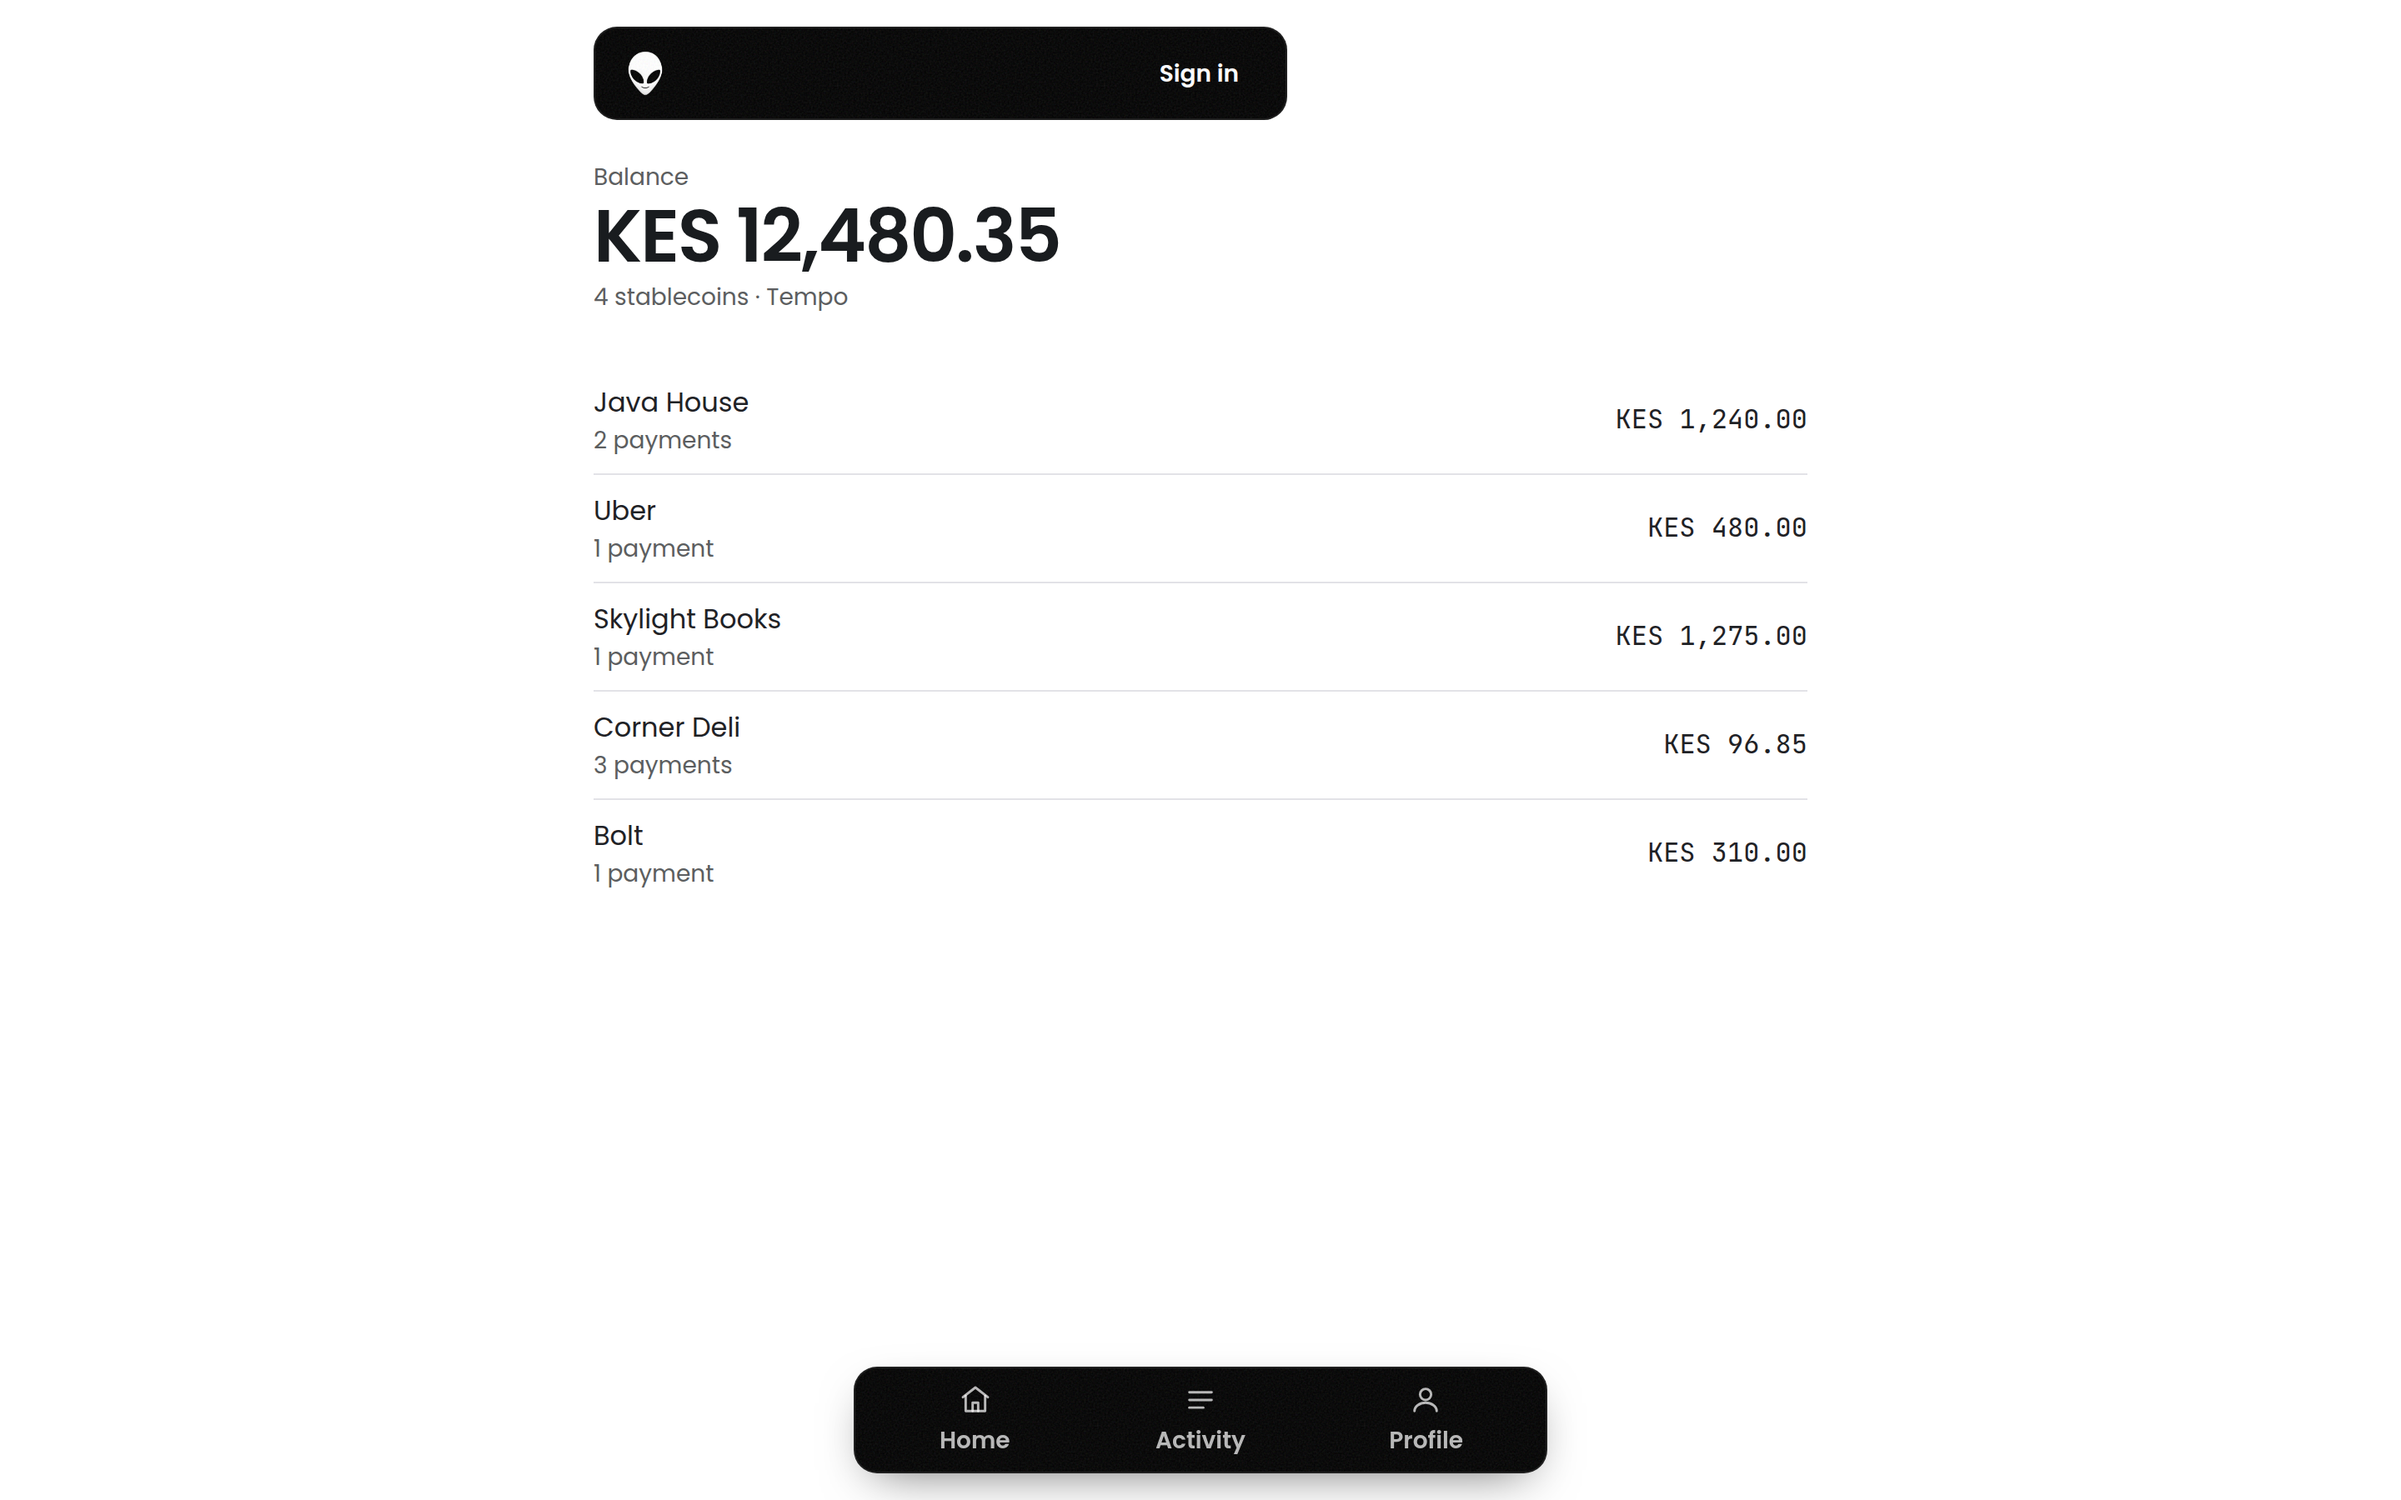
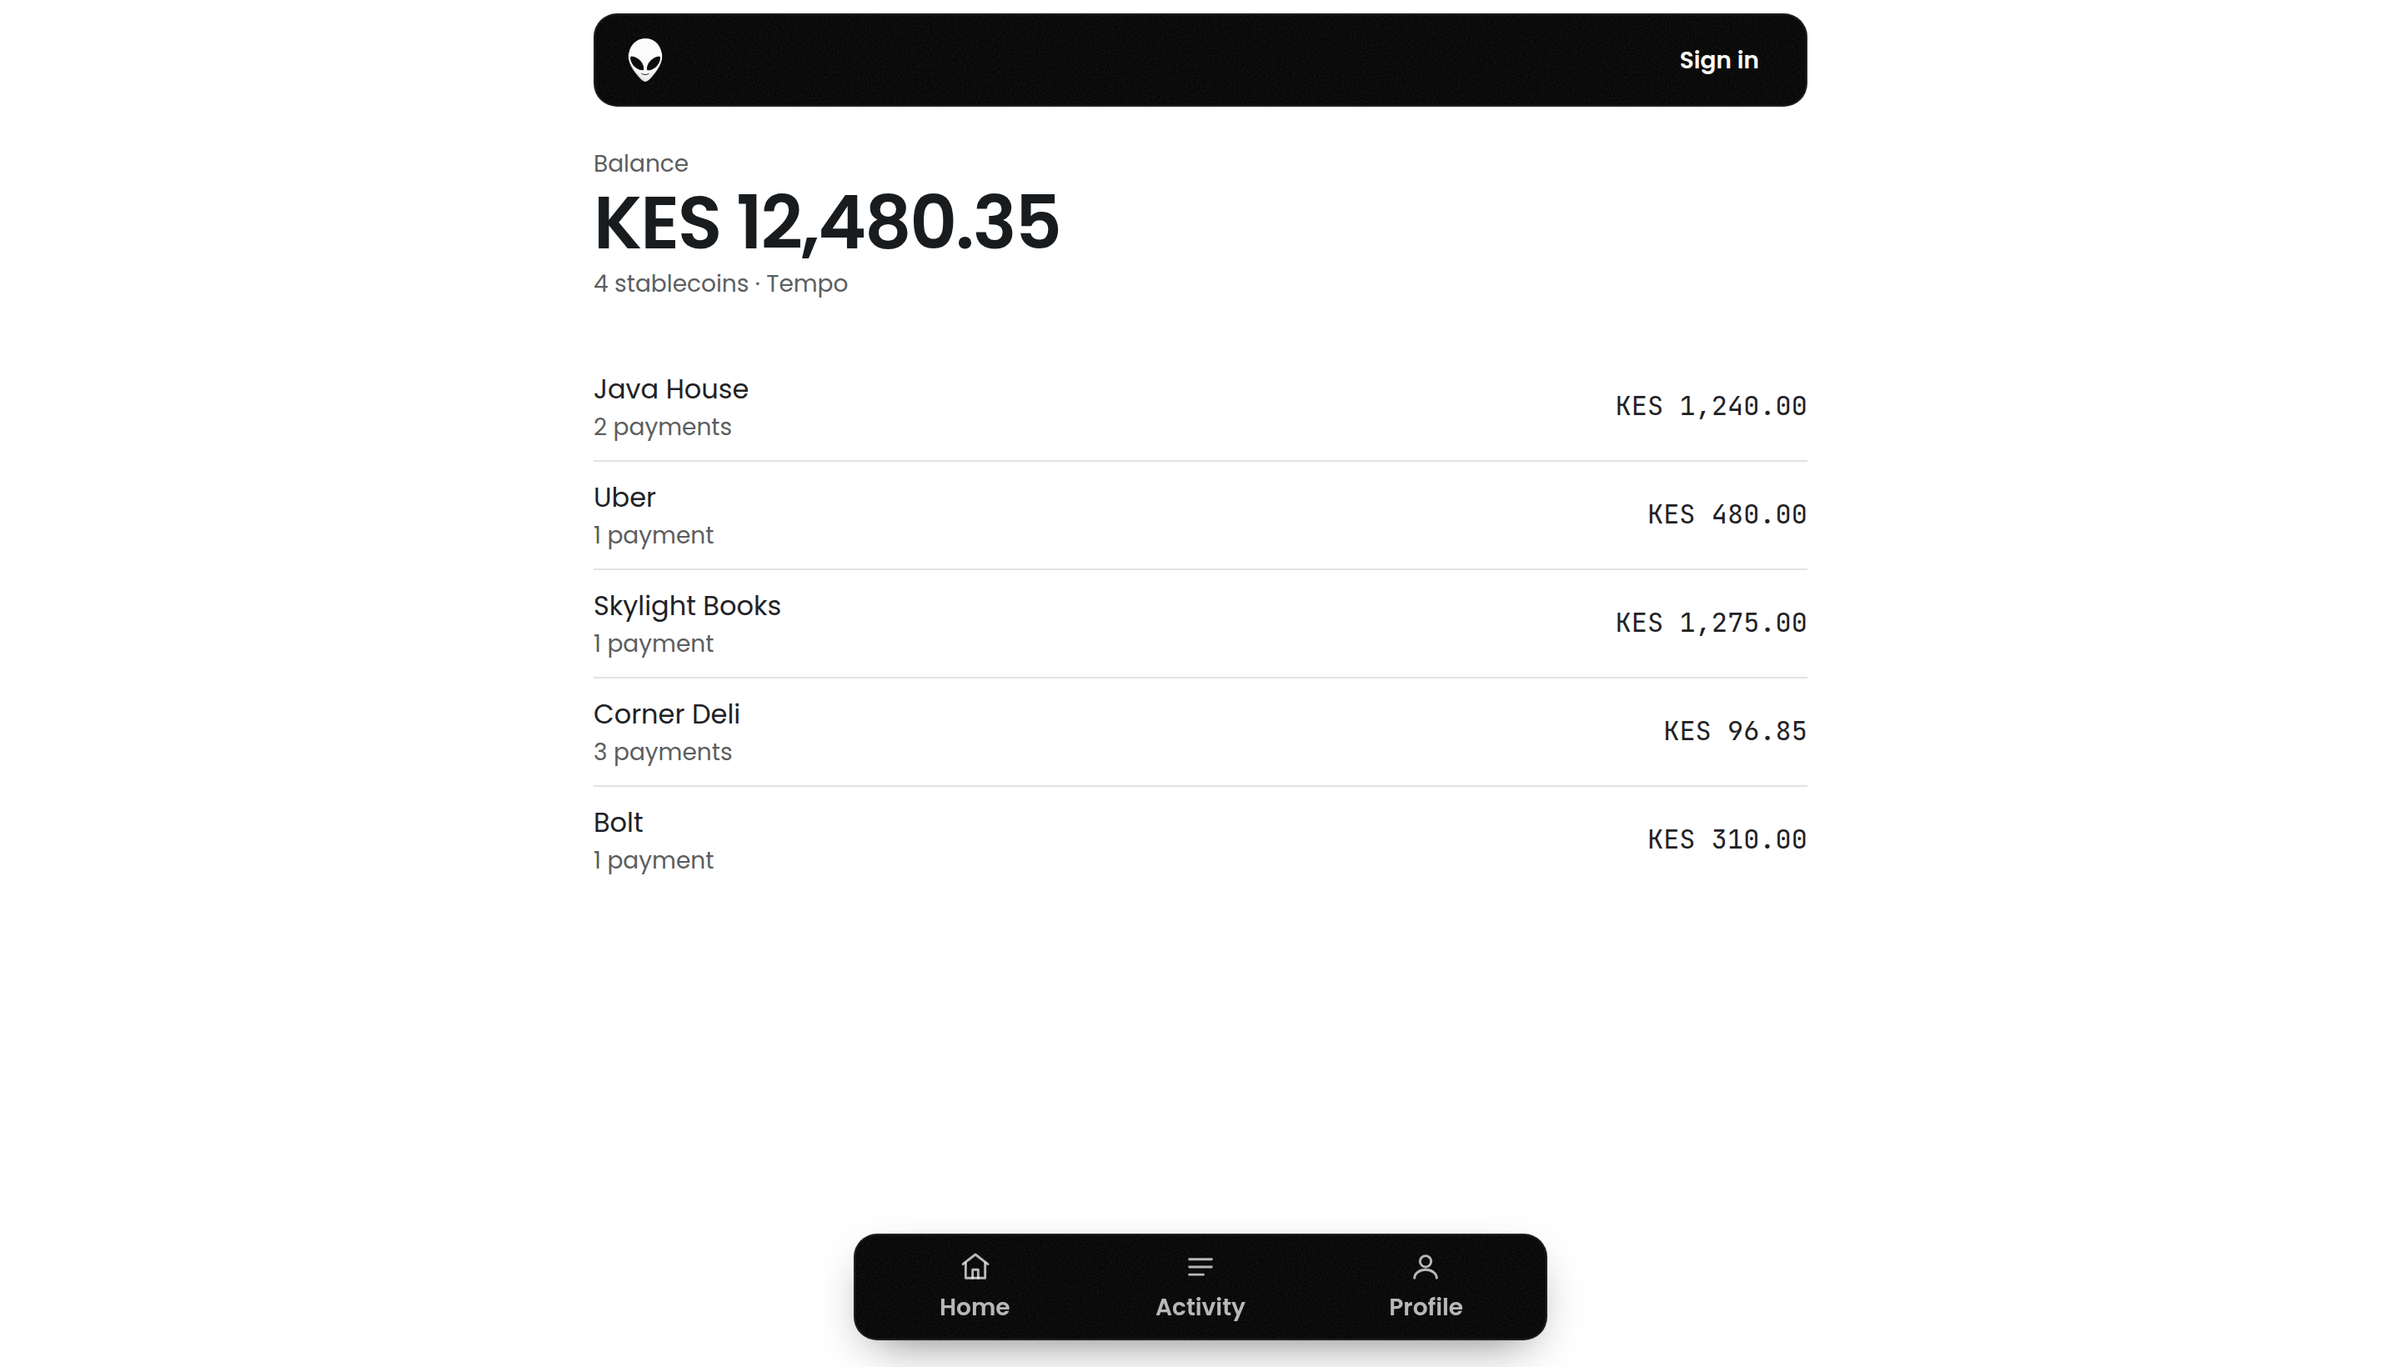
fix(app): the header widens with the column, and names the account by its handle
Two things the last commit left wrong (#542).

The header was capped at the dock's 416px at every width, so on a desktop it floated above a 768px
column, 176px in from its left edge — a slab aligned to nothing. Below `md` it is the column's
width; from `md` up it stops capping and spans the content column, so the masthead shares the
balance card's edges. Measured at 1440: header 728 at x=356, content 728 at x=356.

And the signed-in slot drew `Mark`, which is now the PRODUCT's face — one alien for every account —
so the header showed a second alien beside the brand's. It says `@handle` in the same text control
`Sign in` wears, opening `/app/profile`: the handle is what identifies the person, it is the string a
sender types, and it is what every bank prints when it is not drawing a photo.

diff --git a/web/components/app/TopBarState.tsx b/web/components/app/TopBarState.tsx
@@ -1,7 +1,7 @@
 'use client';
 
 import Link from 'next/link';
-import { Mark, Text } from '@/components/ui';
+import { Text } from '@/components/ui';
 import { SIGN_IN_PATH } from '@/lib/routes';
 import { useSession } from '@/lib/auth';
 import { useAccountIdentity } from '@/lib/account';
@@ -14,11 +14,13 @@ import { useAppNetwork } from './useAppNetwork';
  *    one frame, is the one thing this control must not do.
  * 2. **Not signed in** — `Sign in`, the app's one way in. This is where the rail's signed-out card
  *    went: the rail had a foot and a paragraph, a header has one row, so the control is the row.
- * 3. **Signed in** — the account's own `Mark`: initials on the tone its handle derives, the same
- *    object `ProfileIdentity` draws at 64px, at 32px here. Every bank in the reference set puts the
- *    person in the app's top corner this way (Zopa, Revolut and Monzo top-left; Neo Financial
- *    top-right), and a right-hand slot that empties the moment you sign in reads as a control that
- *    failed rather than as a state that is fine.
+ * 3. **Signed in** — `@handle`, in the same text control `Sign in` wears, opening `/app/profile`.
+ *    The handle rather than `Mark`, deliberately: the mark is now the PRODUCT's face (one alien for
+ *    every account), so drawing it here would put a second alien beside the brand's for no gain.
+ *    The handle is the string that identifies the person — it is what a sender types — and it is
+ *    what every bank prints beside the avatar when it is not drawing a photo (Zopa's "Hi <name>",
+ *    Revolut's name under the avatar). A right-hand slot that empties the moment you sign in reads
+ *    as a control that failed rather than as a state that is fine.
  * 4. **In practice, a chip before it** — `Practice`, in the network's own attention ink, linking to
  *    the page where the network is switched. The practice strip that used to state this on every
  *    screen is gone; this chip is that signal now, which is why the header is sticky.
@@ -82,9 +84,11 @@ export function TopBarState() {
       <Link
         href="/app/profile"
         aria-label="Your profile"
-        className="flex h-11 items-center justify-center rounded-full px-1 focus-visible:outline-none focus-visible:ring-2 focus-visible:ring-primary"
+        className="flex h-11 max-w-40 items-center rounded-lg px-3 whitespace-nowrap transition-colors duration-(--duration-quick) ease-out hover:bg-surface-deep focus-visible:outline-none focus-visible:ring-2 focus-visible:ring-primary"
       >
-        <Mark size="sm" handle={handle} />
+        <Text variant="tab" as="span" color="inverse" className="truncate">
+          {handle ? `@${handle}` : 'Profile'}
+        </Text>
       </Link>
     </span>
   );

diff --git a/web/components/app/AppTopBar.tsx b/web/components/app/AppTopBar.tsx
@@ -16,12 +16,18 @@ import { TopBarState } from './TopBarState';
  * is real. Two objects, each with one job, and the dock keeps three items and the air to spread
  * them.
  *
- * ## Its shape is the dock's shape
+ * ## Its shape is the dock's shape, its WIDTH is the content's
  *
- * Same material, same radius, same width, same axis: a rounded rectangle of `canvas-dark` with the
- * chrome grain and one hairline, capped at the same `max-w` as the dock and centred on the content
- * column. Fey draws its chrome as floating pills and Luma and Fabric as floating toolbars; the rule
- * this app keeps is that chrome is a slab with rounded corners, never a full-bleed band.
+ * Same material, same radius, same treatment as the dock: a rounded rectangle of `canvas-dark` with
+ * the chrome grain and one hairline. Fey draws its chrome as floating pills and Luma and Fabric as
+ * floating toolbars; the rule this app keeps is that chrome is a slab with rounded corners, never a
+ * full-bleed band.
+ *
+ * Below `md` it is the column's own width, minus the page's padding — a phone has one width to be.
+ * From `md` up it stops capping at the dock's `max-w` and spans the content column instead, so the
+ * masthead shares the balance card's left and right edges. A 416px pill floating above a 768px
+ * column, 176px in from its left edge, was a slab aligned to nothing; the dock stays the floating
+ * object because it has three items to float with.
  *
  * ## It is sticky, and it carries the practice state
  *
@@ -38,7 +44,7 @@ import { TopBarState } from './TopBarState';
  */
 export function AppTopBar() {
   return (
-    <header className="sticky top-2 z-20 mx-auto mb-6 flex h-14 w-full max-w-[26rem] items-center justify-between gap-3 overflow-hidden rounded-[14px] border border-hairline-dark bg-canvas-dark px-4 text-on-dark">
+    <header className="sticky top-2 z-20 mx-auto mb-6 flex h-14 w-full max-w-[26rem] md:max-w-none items-center justify-between gap-3 overflow-hidden rounded-[14px] border border-hairline-dark bg-canvas-dark px-4 text-on-dark">
       <BrandMark expression="friendly" canvas="dark" className="h-7" />
 
       <TopBarState />
